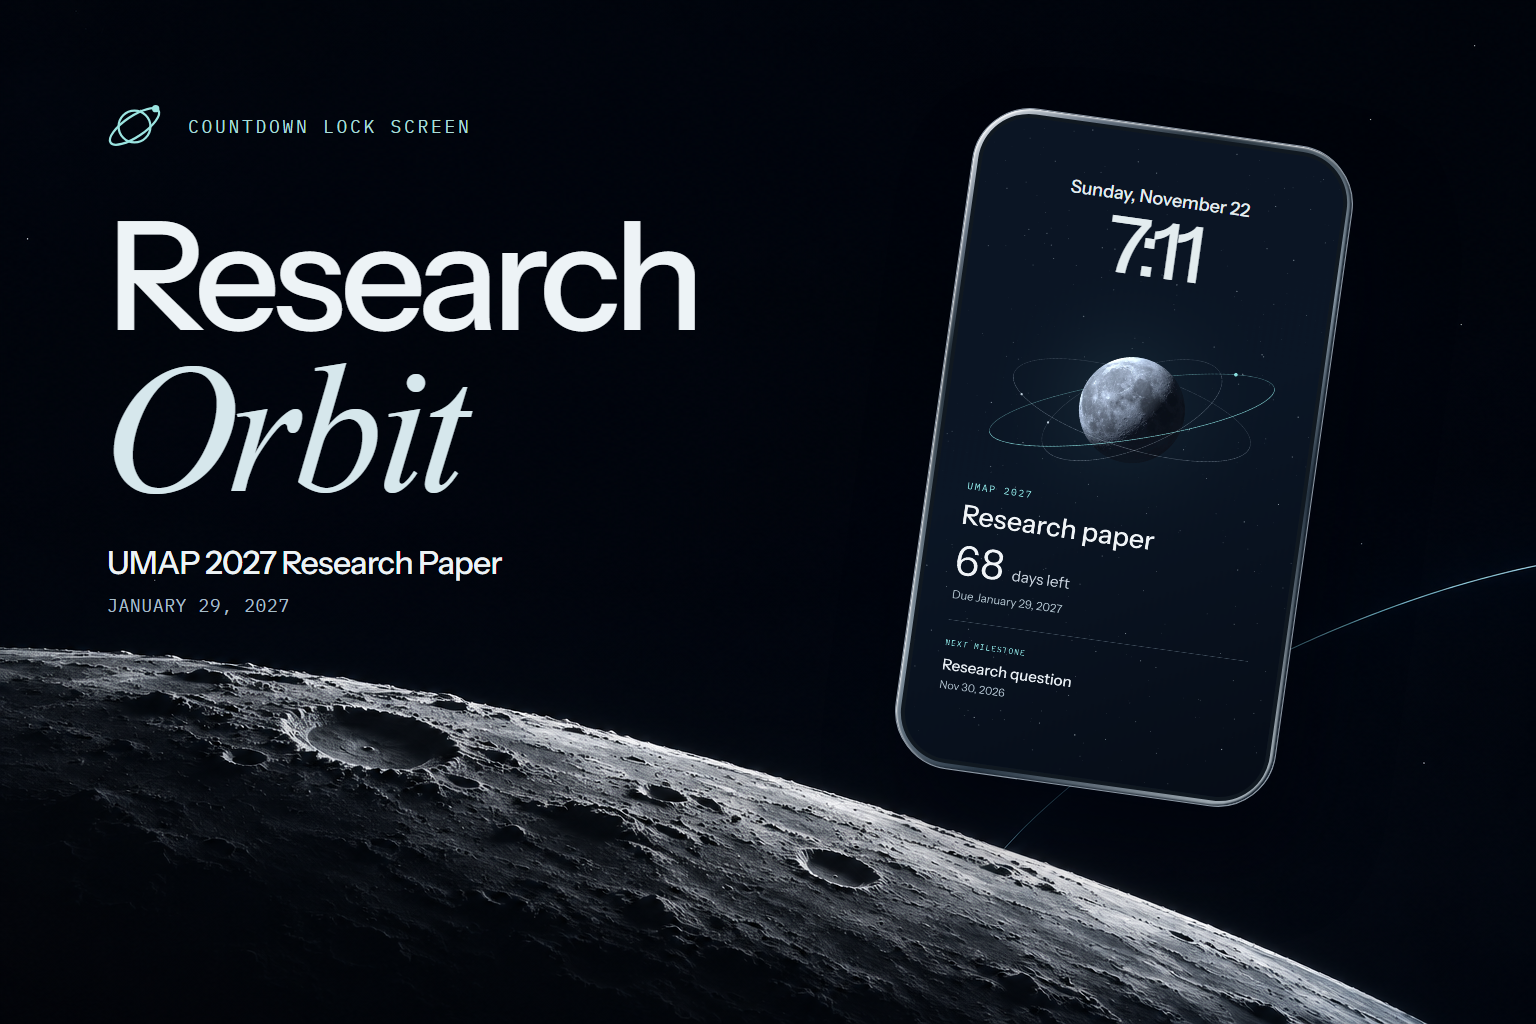
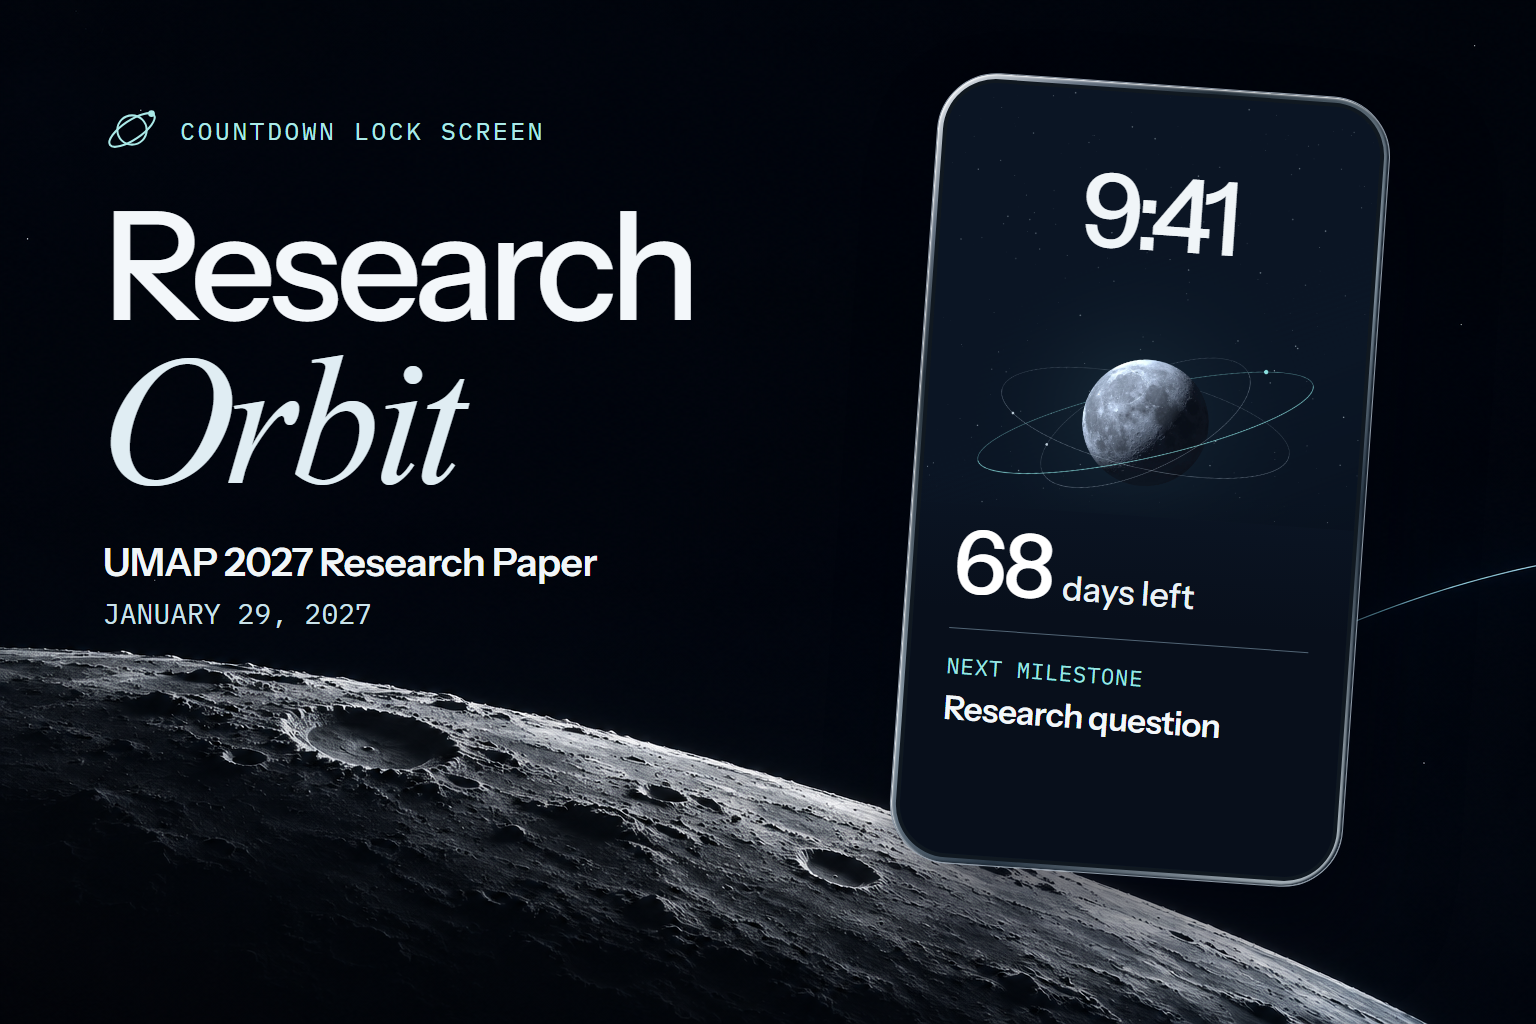
Improve promotional cover readability

diff --git a/README.md b/README.md
@@ -1,5 +1,7 @@
 # Research Orbit
 
+[Open Research Orbit on GitHub Pages](https://mahamudul42.github.io/countdown-lock-screen/)
+
 An interactive countdown and wallpaper studio for a Computer Science PhD paper. The planning target is **January 29, 2027 at 11:59 PM in Chicago (CST)**. The brief supplies the date. The time and six-step research plan were chosen for this challenge. The timeline and countdown logic live in `src/data.ts`.
 
 ## Run locally
@@ -27,7 +29,7 @@ The website clock updates live. An exported wallpaper records the day count, fir
 
 ## Art credits
 
-The lunar globe uses the [NASA Scientific Visualization Studio CGI Moon Kit](https://svs.gsfc.nasa.gov/4720/). See [texture credits](public/textures/CREDITS.txt). The phone on the cover shows an actual wallpaper export. Its preview clock sits in the area reserved for the device clock.
+The lunar globe uses the [NASA Scientific Visualization Studio CGI Moon Kit](https://svs.gsfc.nasa.gov/4720/). See [texture credits](public/textures/CREDITS.txt). The cover uses artwork from the Glacier wallpaper export and larger type for the phone mockup. Its preview clock sits in the area reserved for the device clock.
 
 <details>
 <summary>Promotional background art direction · built-in ImageGen</summary>
